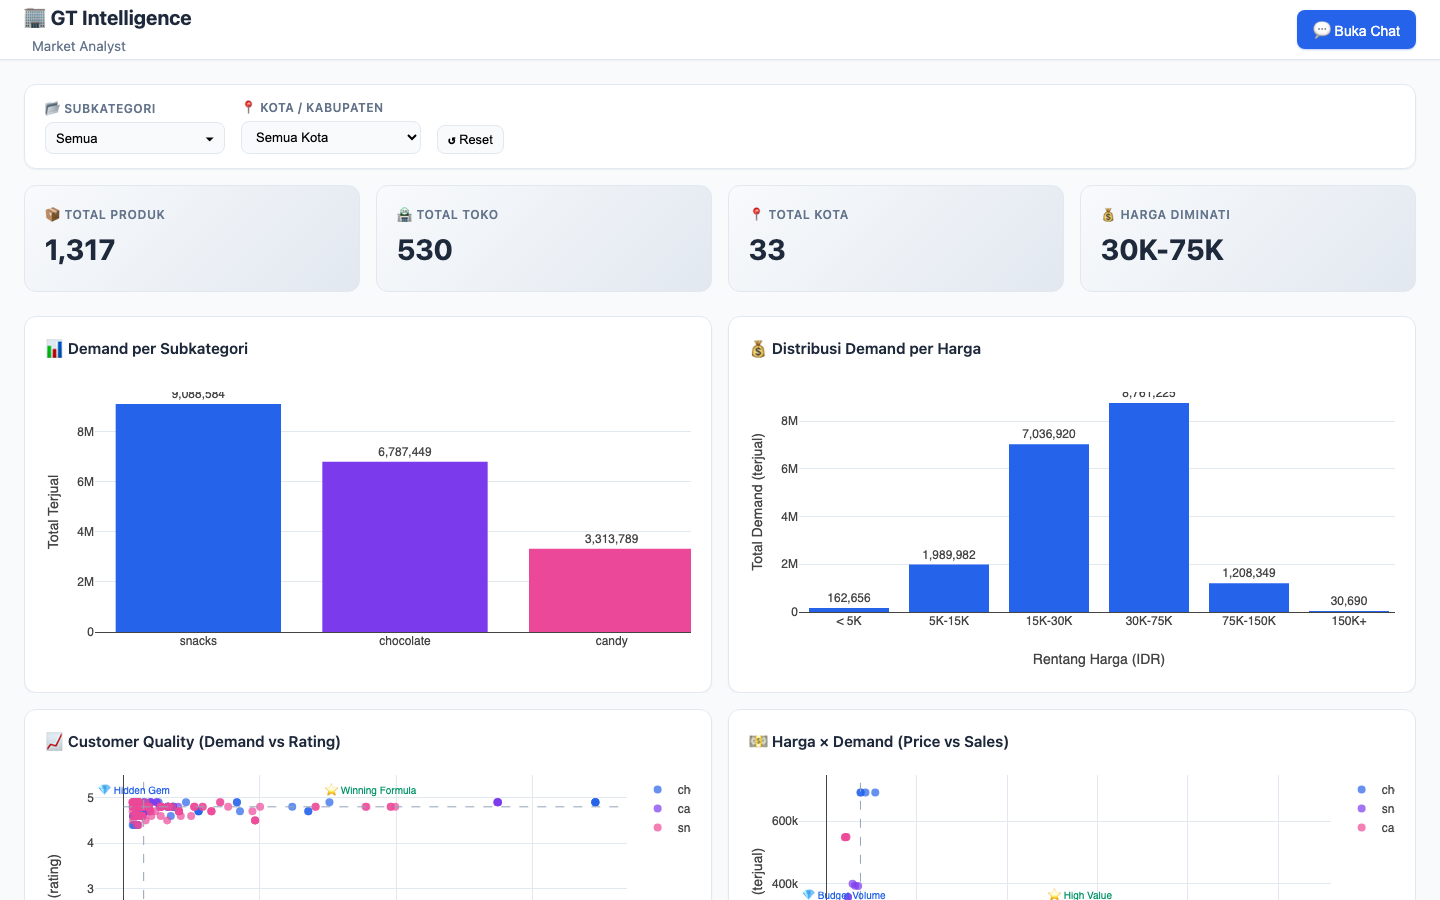
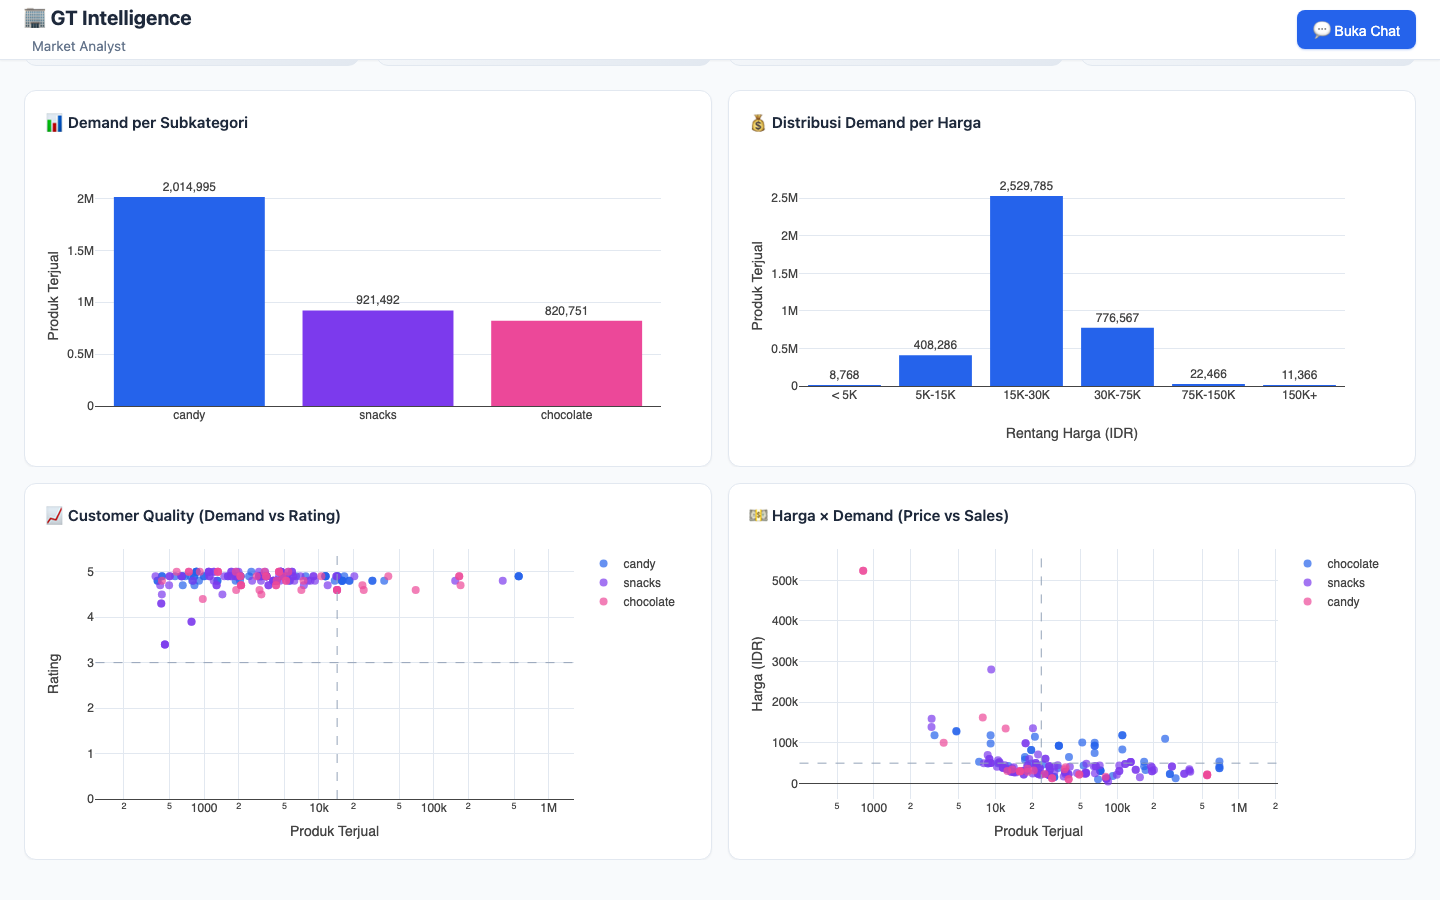
feat: province + kab/kota cascading multiselect filters
- Province multiselect: DKI Jakarta, Banten, Jawa Barat, Jawa Tengah, DI Yogyakarta, Jawa Timur
- Kab/Kota multiselect: auto-populates based on selected provinces
- Both support multiple selection (like subcategory)
- Backend groups cities into provinces via PROVINCE_CITIES mapping
- API accepts province= and city= comma-separated params

diff --git a/static/app.js b/static/app.js
@@ -6,7 +6,8 @@
 const API = '';  // Same origin
 let currentSession = null;
 let chatOpen = false;
-let activeFilters = { subcategories: [], province: '' };
+let activeFilters = { subcategories: [], provinces: [], cities: [] };
+let filterData = { subcategories: [], provinces: [], citiesByProvince: {} };
 
 // ---------------------------------------------------------------------------
 // Init
@@ -25,36 +26,49 @@ async function loadFilters() {
     try {
         const res = await fetch(`${API}/api/dashboard/filters`);
         const data = await res.json();
-        renderMultiselect(data.subcategories || []);
-        const sel = document.getElementById('filter-province');
-        if (sel) {
-            (data.provinces || []).forEach(p => {
-                const opt = document.createElement('option');
-                opt.value = p;
-                opt.textContent = p;
-                sel.appendChild(opt);
-            });
-        }
+        filterData = data;
+
+        // Render subcategory multiselect
+        renderMultiselect('filter-subcategory', 'ms-subcat', data.subcategories || [], (selected) => {
+            activeFilters.subcategories = selected;
+            applyFilters();
+        });
+
+        // Render province multiselect
+        renderMultiselect('filter-province', 'ms-province', data.provinces || [], (selected) => {
+            activeFilters.provinces = selected;
+            updateCityOptions();
+            activeFilters.cities = [];
+            applyFilters();
+        });
+
+        // Initialize city multiselect (empty until province selected)
+        renderMultiselect('filter-city', 'ms-city', [], (selected) => {
+            activeFilters.cities = selected;
+            applyFilters();
+        });
     } catch (err) {
         console.error('Failed to load filters:', err);
     }
 }
 
-function renderMultiselect(options) {
-    const container = document.getElementById('filter-subcategory');
+function renderMultiselect(containerId, msId, options, onChange) {
+    const container = document.getElementById(containerId);
     container.innerHTML = `
-        <button class="multiselect-btn" onclick="this.nextElementSibling.classList.toggle('open')">
-            <span id="ms-label">Semua</span> <span>▾</span>
+        <button class="multiselect-btn" onclick="toggleDropdown('${msId}')">
+            <span id="${msId}-label">Semua</span> <span>▾</span>
         </button>
-        <div class="multiselect-dropdown" id="ms-dropdown">
+        <div class="multiselect-dropdown" id="${msId}">
             ${options.map(o => `
                 <label class="multiselect-option">
-                    <input type="checkbox" value="${o}" onchange="updateMultiselect()"> ${o}
+                    <input type="checkbox" value="${o}" onchange="onMsChange('${msId}')"> ${o}
                 </label>
             `).join('')}
         </div>
     `;
-    // Close dropdown on outside click
+    // Store callback
+    container._onChange = onChange;
+    // Close on outside click
     document.addEventListener('click', (e) => {
         if (!container.contains(e.target)) {
             container.querySelector('.multiselect-dropdown')?.classList.remove('open');
@@ -62,26 +76,59 @@ function renderMultiselect(options) {
     });
 }
 
-function updateMultiselect() {
-    const checkboxes = document.querySelectorAll('#ms-dropdown input[type="checkbox"]');
+function toggleDropdown(msId) {
+    document.getElementById(msId)?.classList.toggle('open');
+}
+
+function onMsChange(msId) {
+    const dropdown = document.getElementById(msId);
+    const checkboxes = dropdown.querySelectorAll('input[type="checkbox"]');
     const selected = Array.from(checkboxes).filter(cb => cb.checked).map(cb => cb.value);
-    const label = document.getElementById('ms-label');
+    const label = document.getElementById(msId + '-label');
     label.textContent = selected.length ? selected.join(', ') : 'Semua';
-    activeFilters.subcategories = selected;
-    applyFilters();
+
+    // Find the container and call its callback
+    const container = dropdown.parentElement;
+    if (container._onChange) container._onChange(selected);
+}
+
+function updateCityOptions() {
+    // Collect all cities from selected provinces
+    const selectedProvinces = activeFilters.provinces;
+    let cities = [];
+    if (selectedProvinces.length) {
+        selectedProvinces.forEach(p => {
+            (filterData.citiesByProvince?.[p] || []).forEach(c => {
+                if (!cities.includes(c)) cities.push(c);
+            });
+        });
+    } else {
+        // No province selected → show all cities
+        Object.values(filterData.citiesByProvince || {}).forEach(arr => {
+            arr.forEach(c => { if (!cities.includes(c)) cities.push(c); });
+        });
+    }
+    cities.sort();
+
+    // Re-render city multiselect
+    const container = document.getElementById('filter-city');
+    renderMultiselect('filter-city', 'ms-city', cities, (selected) => {
+        activeFilters.cities = selected;
+        applyFilters();
+    });
 }
 
 function applyFilters() {
-    const province = document.getElementById('filter-province').value;
-    activeFilters.province = province;
     loadDashboard();
 }
 
 function resetFilters() {
-    activeFilters = { subcategories: [], province: '' };
-    document.querySelectorAll('#ms-dropdown input[type="checkbox"]').forEach(cb => cb.checked = false);
-    document.getElementById('ms-label').textContent = 'Semua';
-    document.getElementById('filter-province').value = '';
+    activeFilters = { subcategories: [], provinces: [], cities: [] };
+    // Reset all checkboxes
+    document.querySelectorAll('.multiselect-dropdown input[type="checkbox"]').forEach(cb => cb.checked = false);
+    document.querySelectorAll('.multiselect-btn span:first-child').forEach(el => el.textContent = 'Semua');
+    // Reset city options to all
+    updateCityOptions();
     loadDashboard();
 }
 
@@ -90,8 +137,11 @@ function getFilterParams() {
     if (activeFilters.subcategories.length) {
         params.set('subcategories', activeFilters.subcategories.join(','));
     }
-    if (activeFilters.province) {
-        params.set('province', activeFilters.province);
+    if (activeFilters.provinces.length) {
+        params.set('province', activeFilters.provinces.join(','));
+    }
+    if (activeFilters.cities.length) {
+        params.set('city', activeFilters.cities.join(','));
     }
     return params.toString();
 }

diff --git a/static/index.html b/static/index.html
@@ -42,9 +42,11 @@
                     </div>
                     <div class="filter-group">
                         <label class="filter-label">📍 Provinsi</label>
-                        <select id="filter-province" class="filter-select" onchange="applyFilters()">
-                            <option value="">Semua Provinsi</option>
-                        </select>
+                        <div id="filter-province" class="multiselect"></div>
+                    </div>
+                    <div class="filter-group">
+                        <label class="filter-label">🏙️ Kota / Kabupaten</label>
+                        <div id="filter-city" class="multiselect"></div>
                     </div>
                     <button class="btn btn-small" onclick="resetFilters()">↺ Reset</button>
                 </div>

diff --git a/src/api/server.py b/src/api/server.py
@@ -125,7 +125,7 @@ PROVINCE_CITIES = {
 }
 
 
-def _build_filter_clause(subcategories: str = None, province: str = None) -> tuple[str, list]:
+def _build_filter_clause(subcategories: str = None, province: str = None, city: str = None) -> tuple[str, list]:
     """Build SQL WHERE clause from filter params. Returns (clause, params)."""
     conditions = []
     params = []
@@ -136,10 +136,20 @@ def _build_filter_clause(subcategories: str = None, province: str = None) -> tup
             conditions.append(f"subcategory IN ({placeholders})")
             params.extend(cats)
     if province:
-        cities = PROVINCE_CITIES.get(province, [province])
-        placeholders = ",".join(["?" for _ in cities])
-        conditions.append(f"shop_location IN ({placeholders})")
-        params.extend(cities)
+        provs = [p.strip() for p in province.split(",") if p.strip()]
+        all_cities = []
+        for p in provs:
+            all_cities.extend(PROVINCE_CITIES.get(p, [p]))
+        if all_cities:
+            placeholders = ",".join(["?" for _ in all_cities])
+            conditions.append(f"shop_location IN ({placeholders})")
+            params.extend(all_cities)
+    if city:
+        cities = [c.strip() for c in city.split(",") if c.strip()]
+        if cities:
+            placeholders = ",".join(["?" for _ in cities])
+            conditions.append(f"shop_location IN ({placeholders})")
+            params.extend(cities)
     if conditions:
         return "WHERE " + " AND ".join(conditions), params
     return "", params
@@ -147,21 +157,32 @@ def _build_filter_clause(subcategories: str = None, province: str = None) -> tup
 
 @app.get("/api/dashboard/filters")
 async def get_filter_options():
-    """Return available filter values (subcategories, provinces)."""
+    """Return available filter values (subcategories, provinces, citiesByProvince)."""
     agent = get_agent()
     subcats = [r[0] for r in agent.con.execute(
         "SELECT DISTINCT subcategory FROM products ORDER BY subcategory"
     ).fetchall()]
-    # Return province names (from PROVINCE_CITIES mapping)
-    provinces = sorted(PROVINCE_CITIES.keys())
-    return {"subcategories": subcats, "provinces": provinces}
+
+    # Get actual cities in DB per province
+    db_cities = set(r[0] for r in agent.con.execute(
+        "SELECT DISTINCT shop_location FROM products"
+    ).fetchall())
+
+    cities_by_province = {}
+    for prov, cities in PROVINCE_CITIES.items():
+        matched = [c for c in cities if c in db_cities]
+        if matched:
+            cities_by_province[prov] = sorted(matched)
+
+    provinces = sorted(cities_by_province.keys())
+    return {"subcategories": subcats, "provinces": provinces, "citiesByProvince": cities_by_province}
 
 
 @app.get("/api/dashboard")
-async def get_dashboard(subcategories: str = None, province: str = None):
+async def get_dashboard(subcategories: str = None, province: str = None, city: str = None):
     """Return dashboard data (metrics + chart data), optionally filtered."""
     agent = get_agent()
-    where, params = _build_filter_clause(subcategories, province)
+    where, params = _build_filter_clause(subcategories, province, city)
 
     def q(sql):
         return agent.con.execute(sql, params).fetchall()
@@ -234,10 +255,10 @@ async def get_dashboard(subcategories: str = None, province: str = None):
 
 
 @app.get("/api/dashboard/quadrant")
-async def get_quadrant_data(subcategories: str = None, province: str = None):
+async def get_quadrant_data(subcategories: str = None, province: str = None, city: str = None):
     """Return per-product data for the opportunity quadrant (demand vs rating)."""
     agent = get_agent()
-    where, params = _build_filter_clause(subcategories, province)
+    where, params = _build_filter_clause(subcategories, province, city)
     extra = " AND rating > 0" if where else "WHERE rating > 0"
     rows = agent.con.execute(
         "SELECT product_name, subcategory, sold_count, rating, price "
@@ -253,14 +274,10 @@ async def get_quadrant_data(subcategories: str = None, province: str = None):
 
 
 @app.get("/api/dashboard/quadrant-store")
-async def get_quadrant_store_data(subcategories: str = None, province: str = None):
-    """Return per-product data for distribution quadrant (demand vs store_count).
-
-    Normalizes product names to identify the same product across sellers.
-    store_count = number of distinct sellers listing the same product.
-    """
+async def get_quadrant_store_data(subcategories: str = None, province: str = None, city: str = None):
+    """Return per-product data for distribution quadrant (demand vs store_count)."""
     agent = get_agent()
-    where, params = _build_filter_clause(subcategories, province)
+    where, params = _build_filter_clause(subcategories, province, city)
     extra = " AND rating > 0" if where else "WHERE rating > 0"
     rows = agent.con.execute("""
         SELECT
@@ -293,10 +310,10 @@ async def get_quadrant_store_data(subcategories: str = None, province: str = Non
 
 
 @app.get("/api/dashboard/geo-map")
-async def get_geo_map(subcategories: str = None, province: str = None):
+async def get_geo_map(subcategories: str = None, province: str = None, city: str = None):
     """Return geo data with lat/lng for mapbox visualization."""
     agent = get_agent()
-    where, params = _build_filter_clause(subcategories, province)
+    where, params = _build_filter_clause(subcategories, province, city)
     rows = agent.con.execute(
         "SELECT shop_location, COUNT(*) as seller_count, SUM(sold_count) as total_sold "
         "FROM products " + where + " GROUP BY shop_location ORDER BY seller_count DESC",